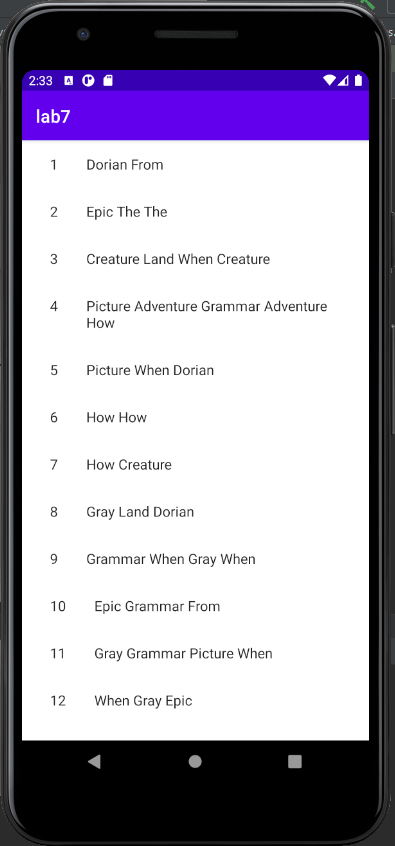
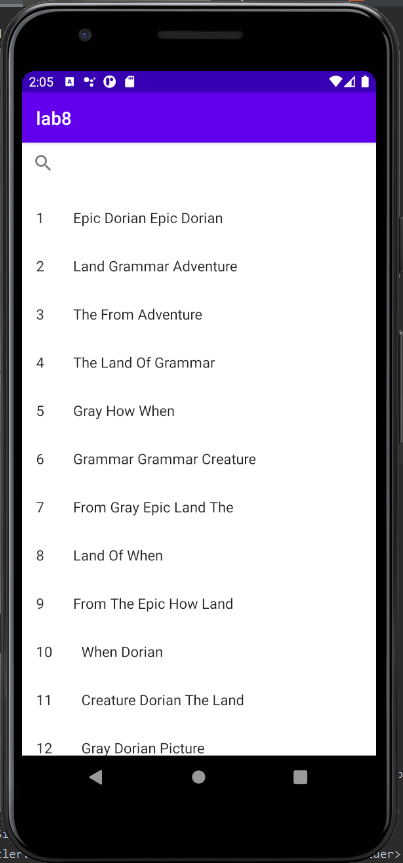
finalized + readme

diff --git a/README.md b/README.md
@@ -1,1 +1,14 @@
-# mobile-app-dev-assignment-8
+# Lab 8: Search
+This project is build on what we did in Lab 7.  This is a library app that allows users to select from a shelf of randomly generated books. The user is prompted to select a book, and upon doing so is shown a detail screen that shows the book's full title and author.  The user can select and view books in landscape mode without launching a detail screen.
+The user can search for a string token, and only book titles that match that token will be displayed.
+
+## Screenshots
+![1](https://raw.githubusercontent.com/tuh37046/mobile-app-dev-assignment-8/master/l71.PNG) <br>
+*Above: User is provided a list of books*
+
+![1](https://raw.githubusercontent.com/tuh37046/mobile-app-dev-assignment-8/master/l72.PNG) <br>
+*Above: User searches for books starting with "The""*
+
+
+![1](https://raw.githubusercontent.com/tuh37046/mobile-app-dev-assignment-8/master/l73.PNG) <br>
+*Above: User searches for books starting with "Gray""*
